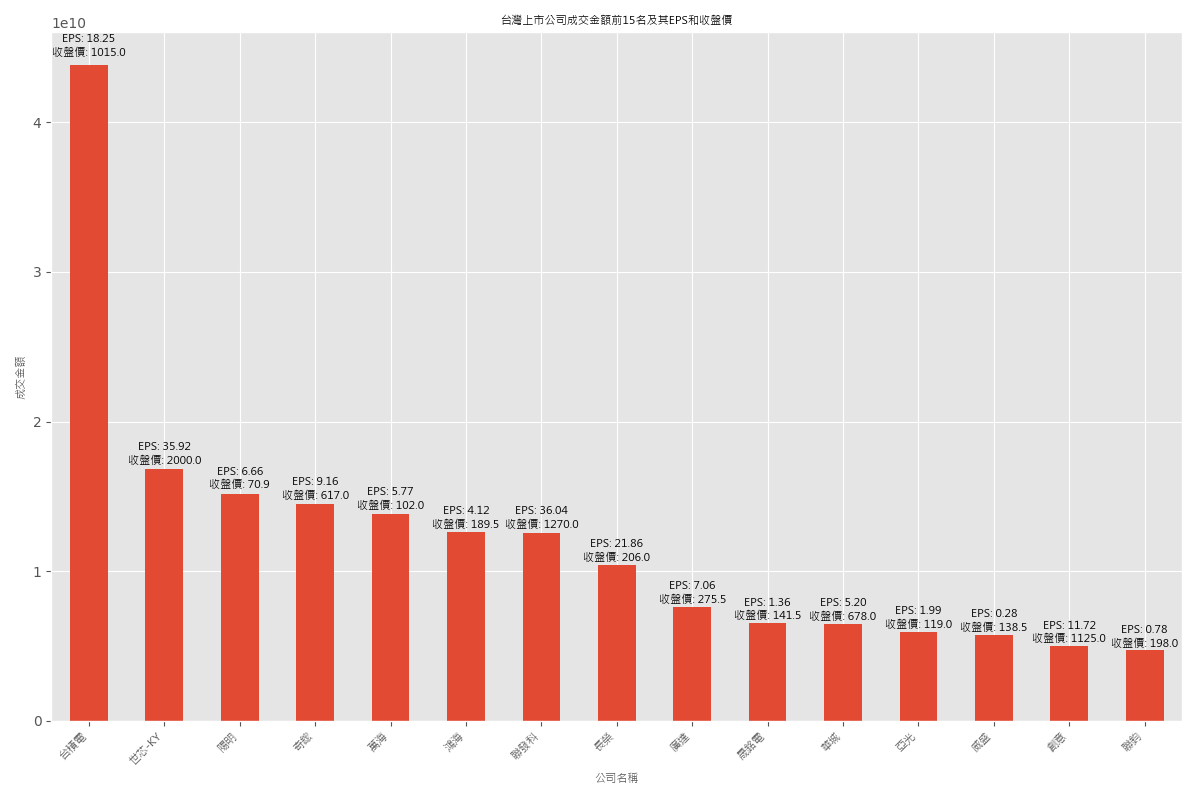
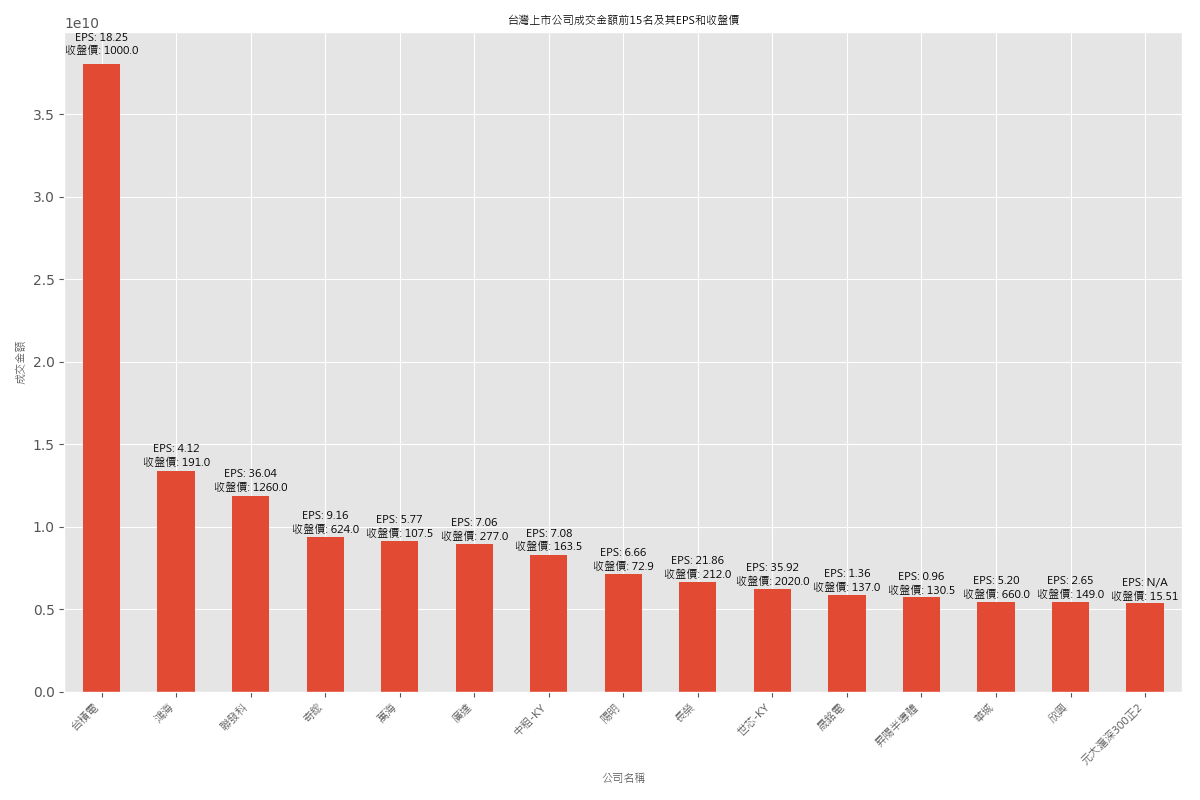
Update from GitHub Actions

diff --git a/README.md b/README.md
@@ -14,13 +14,13 @@ EPS從每年的年初開始計算。
 
 ![2330_3month_history](https://github.com/weitsunglin/quick_analyze_taiwan_hot_stock/blob/main/hot/2330_3month_history.png)
 
-### 股票代號：3661
+### 股票代號：2317
 
-![3661_3month_history](https://github.com/weitsunglin/quick_analyze_taiwan_hot_stock/blob/main/hot/3661_3month_history.png)
+![2317_3month_history](https://github.com/weitsunglin/quick_analyze_taiwan_hot_stock/blob/main/hot/2317_3month_history.png)
 
-### 股票代號：2609
+### 股票代號：2454
 
-![2609_3month_history](https://github.com/weitsunglin/quick_analyze_taiwan_hot_stock/blob/main/hot/2609_3month_history.png)
+![2454_3month_history](https://github.com/weitsunglin/quick_analyze_taiwan_hot_stock/blob/main/hot/2454_3month_history.png)
 
 ### 股票代號：3017
 
@@ -30,43 +30,43 @@ EPS從每年的年初開始計算。
 
 ![2615_3month_history](https://github.com/weitsunglin/quick_analyze_taiwan_hot_stock/blob/main/hot/2615_3month_history.png)
 
-### 股票代號：2317
+### 股票代號：2382
 
-![2317_3month_history](https://github.com/weitsunglin/quick_analyze_taiwan_hot_stock/blob/main/hot/2317_3month_history.png)
+![2382_3month_history](https://github.com/weitsunglin/quick_analyze_taiwan_hot_stock/blob/main/hot/2382_3month_history.png)
 
-### 股票代號：2454
+### 股票代號：5871
 
-![2454_3month_history](https://github.com/weitsunglin/quick_analyze_taiwan_hot_stock/blob/main/hot/2454_3month_history.png)
+![5871_3month_history](https://github.com/weitsunglin/quick_analyze_taiwan_hot_stock/blob/main/hot/5871_3month_history.png)
+
+### 股票代號：2609
+
+![2609_3month_history](https://github.com/weitsunglin/quick_analyze_taiwan_hot_stock/blob/main/hot/2609_3month_history.png)
 
 ### 股票代號：2603
 
 ![2603_3month_history](https://github.com/weitsunglin/quick_analyze_taiwan_hot_stock/blob/main/hot/2603_3month_history.png)
 
-### 股票代號：2382
+### 股票代號：3661
 
-![2382_3month_history](https://github.com/weitsunglin/quick_analyze_taiwan_hot_stock/blob/main/hot/2382_3month_history.png)
+![3661_3month_history](https://github.com/weitsunglin/quick_analyze_taiwan_hot_stock/blob/main/hot/3661_3month_history.png)
 
 ### 股票代號：3013
 
 ![3013_3month_history](https://github.com/weitsunglin/quick_analyze_taiwan_hot_stock/blob/main/hot/3013_3month_history.png)
 
+### 股票代號：8028
+
+![8028_3month_history](https://github.com/weitsunglin/quick_analyze_taiwan_hot_stock/blob/main/hot/8028_3month_history.png)
+
 ### 股票代號：1519
 
 ![1519_3month_history](https://github.com/weitsunglin/quick_analyze_taiwan_hot_stock/blob/main/hot/1519_3month_history.png)
 
-### 股票代號：3019
+### 股票代號：3037
 
-![3019_3month_history](https://github.com/weitsunglin/quick_analyze_taiwan_hot_stock/blob/main/hot/3019_3month_history.png)
+![3037_3month_history](https://github.com/weitsunglin/quick_analyze_taiwan_hot_stock/blob/main/hot/3037_3month_history.png)
 
-### 股票代號：2388
+### 股票代號：00637L
 
-![2388_3month_history](https://github.com/weitsunglin/quick_analyze_taiwan_hot_stock/blob/main/hot/2388_3month_history.png)
-
-### 股票代號：3443
-
-![3443_3month_history](https://github.com/weitsunglin/quick_analyze_taiwan_hot_stock/blob/main/hot/3443_3month_history.png)
-
-### 股票代號：3450
-
-![3450_3month_history](https://github.com/weitsunglin/quick_analyze_taiwan_hot_stock/blob/main/hot/3450_3month_history.png)
+![00637L_3month_history](https://github.com/weitsunglin/quick_analyze_taiwan_hot_stock/blob/main/hot/00637L_3month_history.png)
 
